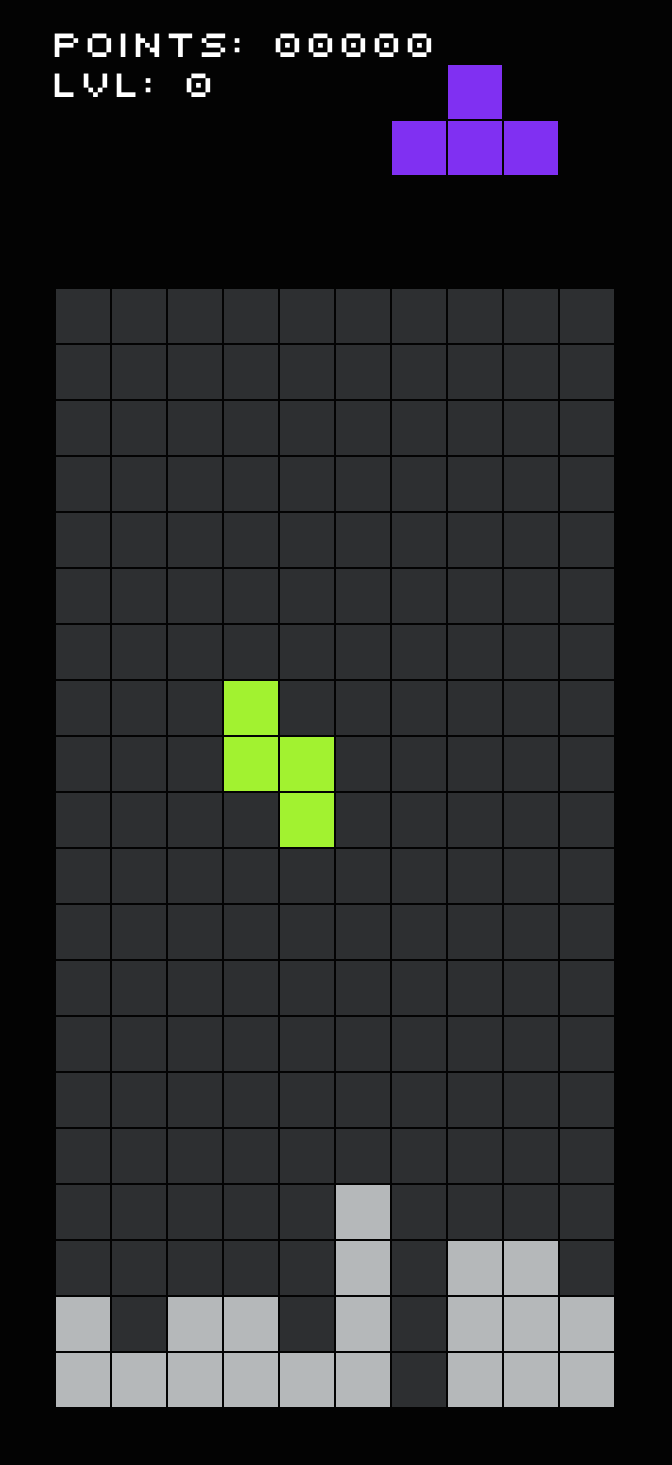
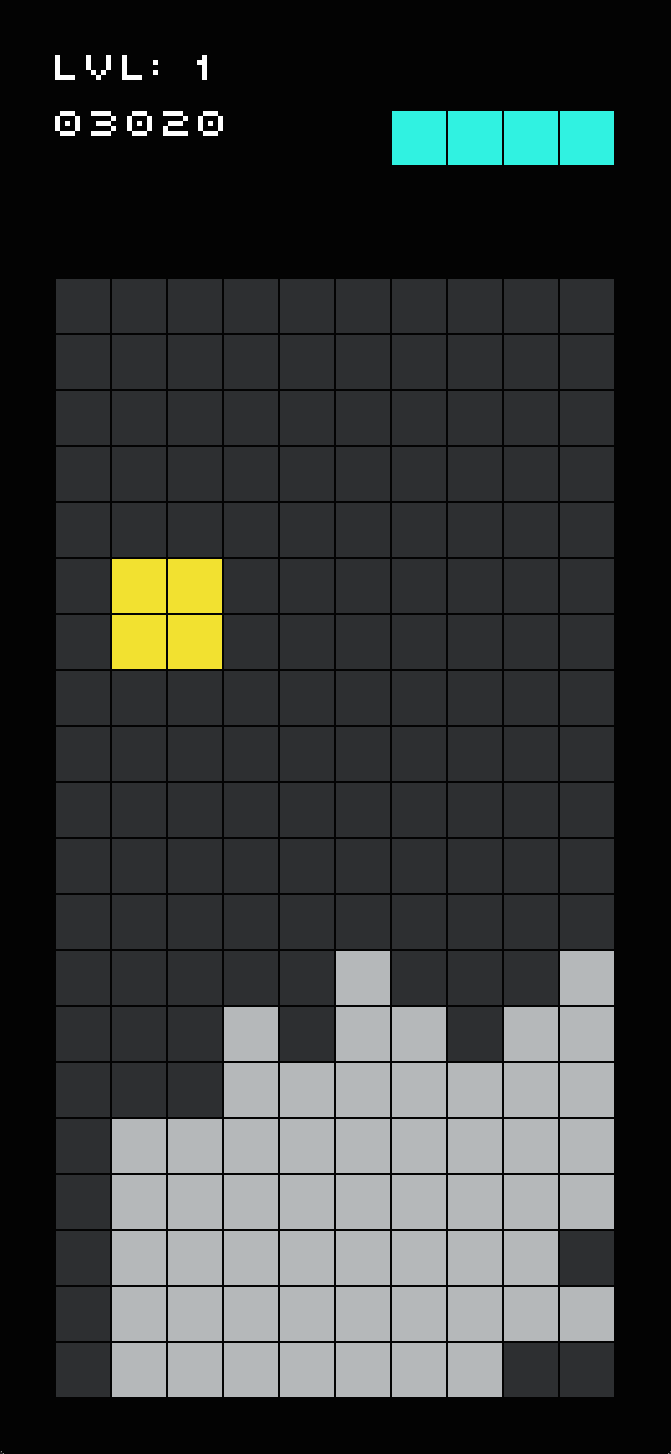
improved layout of level and score readout, new screenshot reflects this change

diff --git a/game.rb b/game.rb
@@ -37,7 +37,7 @@ class GameWindow < Gosu::Window
     @shapelogic = Tetris::ShapeLogic.new(self, @grid, @randomizer)
     @next_shape = Tetris::NextShape.new(self, @randomizer)
     @player = PlayerInput.new(self, @shapelogic)
-    @font = Gosu::Font.new(self, "assets/victor-pixel.ttf", 30)
+    @font = Gosu::Font.new(self, "assets/victor-pixel.ttf", 32)
     @audio_engine.soundtrack
   end
   
@@ -60,8 +60,8 @@ class GameWindow < Gosu::Window
     translate 196, 28 do
       @next_shape.draw
     end
-    @font.draw "Points: %05i" % @scoring.score, 25, 0, 0
-    @font.draw "Lvl:%2i" % @scoring.level, 25, 20, 0
+    @font.draw "%05i" % @scoring.score, 25, 43, 0
+    @font.draw "Lvl:%2i" % @scoring.level, 25, 15, 0
     @font.draw "Game Over", 26, 202, 0, 2, 2, Gosu::Color::RED1 if game_over?
   end
 

diff --git a/README.md b/README.md
@@ -23,6 +23,7 @@ This is a Tetris clone written in Ruby using the [Gosu framework](http://code.go
 # Resources
 
 I've tried to implement the mechanics of the game reasonably faithfully thus far.
+
 For more information, see the [tetris wiki](http://en.wikipedia.org/wiki/tetris_(video_game)).
 
 # Thanks
